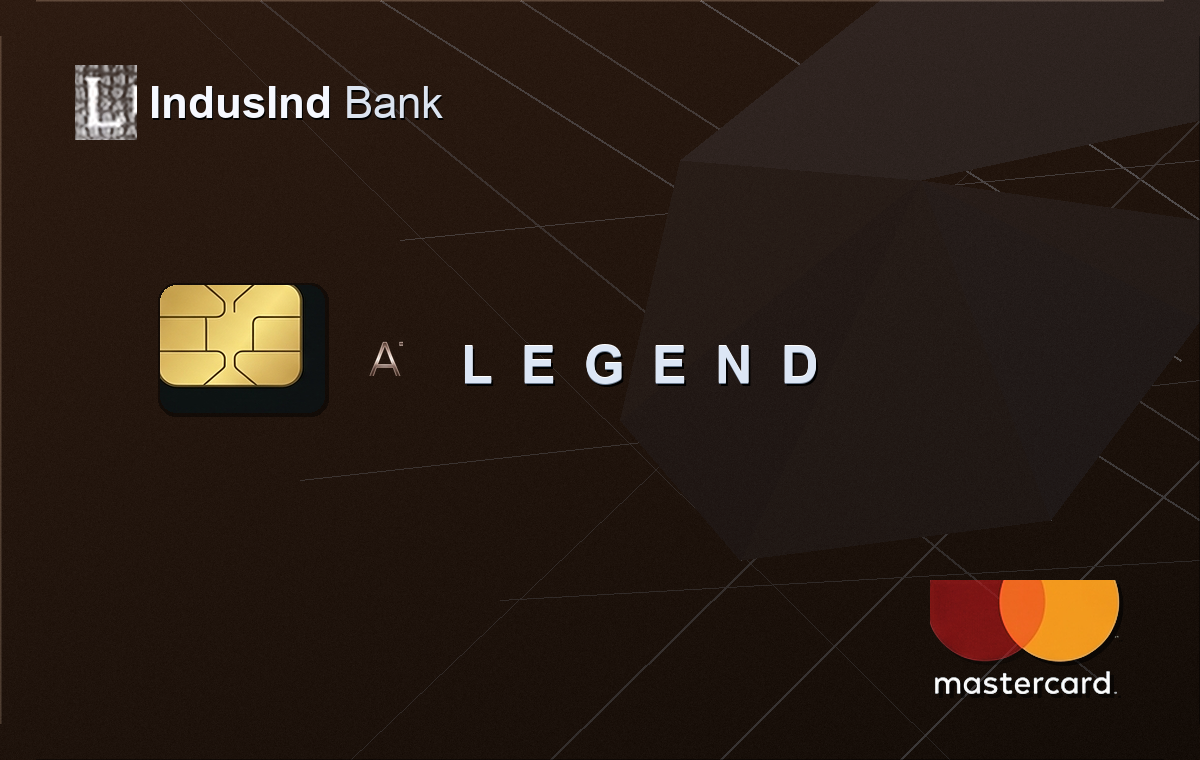
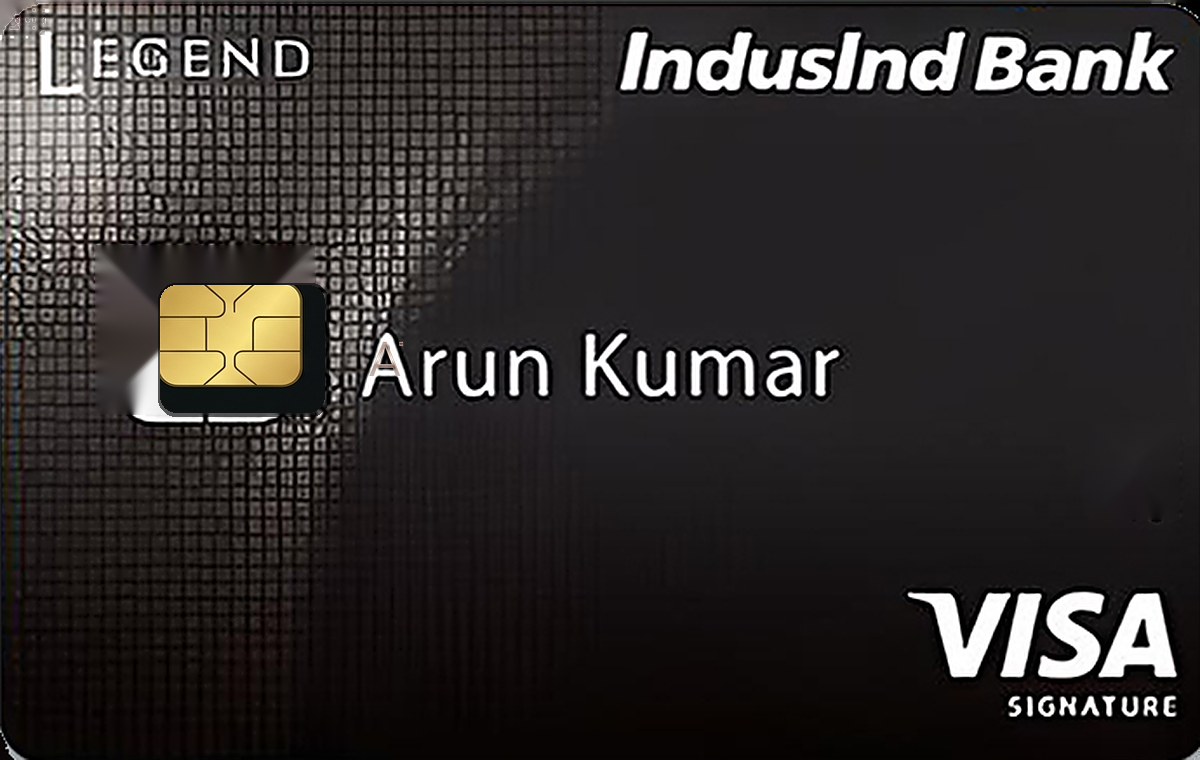
fix(cards): rework IndusInd Legend credit card to authentic graphite slate look and proper bank wordmark layout

diff --git a/src/utils/cardAssets.ts b/src/utils/cardAssets.ts
@@ -981,11 +981,11 @@ export const CARD_ART_PRESETS: CardArtPreset[] = [
       "legend signature",
       "legend",
     ],
-    bgGradient: "linear-gradient(135deg, #091a33 0%, #15396b 50%, #061122 100%)",
-    accentColor: "#facc15",
-    textColor: "#fef08a",
+    bgGradient: "linear-gradient(135deg, #2b303a 0%, #1a1e24 50%, #0d0f12 100%)",
+    accentColor: "#e2e8f0",
+    textColor: "#f8fafc",
     badgeText: "LEGEND SIGNATURE",
-    patternType: "filigree",
+    patternType: "lines",
     imageUrl: "/cards/indusind-legend.png",
     officialImageUrl: "https://www.indusind.bank.in/content/dam/indusind-platform-images/carousal-banner-images/credit-card/new-webp-cc-/cards-th-image/Legend_card-image_396x257px.webp",
   },
